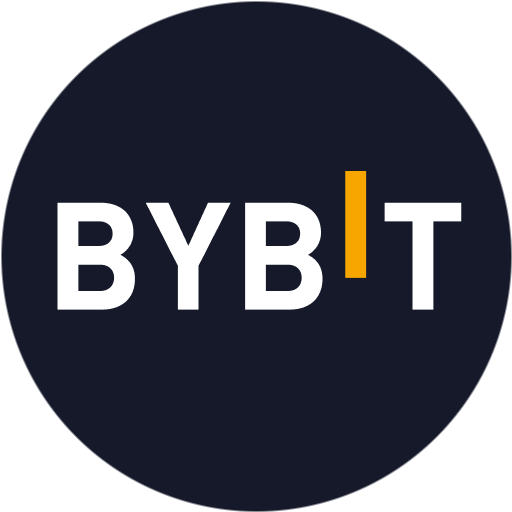
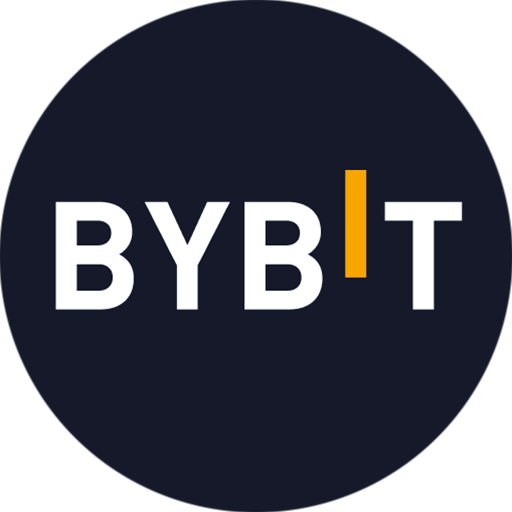
ыв

diff --git a/src/components/ui/CryptoIcons.jsx b/src/components/ui/CryptoIcons.jsx
@@ -13,21 +13,32 @@ import bybitPng from '../../assets/bottom-icons/bybit.png'
 import okxPng from '../../assets/bottom-icons/okx.png'
 import binancePng from '../../assets/bottom-icons/binance.png'
 
-const topIcons = [
+import gptPng from '../../assets/bottom-icons/gpt.png'
+import geminiPng from '../../assets/bottom-icons/gemini.png'
+import grokPng from '../../assets/bottom-icons/grok.png'
+
+const paymentIcons = [
   { id: 'usdt', name: 'USDT', src: usdtPng },
   { id: 'ton', name: 'TON', src: tonPng },
-  { id: 'eth', name: 'ETH', src: ethPng },
   { id: 'btc', name: 'BTC', src: btcPng },
-    { id: 'bybit', name: 'Bybit', src: bybitPng },
-  { id: 'okx', name: 'OKX', src: okxPng },
-  { id: 'binance', name: 'Binance', src: binancePng },
 ]
 
-const bottomIcons = [
+const bankIcons = [
   { id: 'sbp', name: 'СБП', src: sbpPng },
   { id: 'vtb', name: 'ВТБ', src: vtbPng, imgClassName: 'scale-[1.1] -translate-x-[1px]' },
   { id: 'sber', name: 'Сбер', src: sberPng },
+]
 
+const exchangeIcons = [
+  { id: 'binance', name: 'Binance', src: binancePng },
+  { id: 'okx', name: 'OKX', src: okxPng, imgClassName: 'scale-[1.08]' },
+  { id: 'bybit', name: 'Bybit', src: bybitPng, imgClassName: 'scale-[1.08]' },
+]
+
+const aiChatIcons = [
+  { id: 'gpt', name: 'GPT', src: gptPng, imgClassName: 'scale-[0.82]' },
+  { id: 'gemini', name: 'Gemini', src: geminiPng, imgClassName: 'scale-[0.82]' },
+  { id: 'grok', name: 'Grok', src: grokPng },
 ]
 
 function IconCircle({ src, alt, index, imgClassName = '' }) {
@@ -36,7 +47,7 @@ function IconCircle({ src, alt, index, imgClassName = '' }) {
       initial={{ opacity: 0, scale: 0 }}
       animate={{ opacity: 1, scale: 1 }}
       transition={{ delay: index * 0.06 }}
-      className="flex h-9 w-9 items-center justify-center overflow-hidden rounded-full bg-white"
+      className="flex h-8 w-8 items-center justify-center overflow-hidden rounded-full bg-white"
       title={alt}
     >
       <img
@@ -49,34 +60,92 @@ function IconCircle({ src, alt, index, imgClassName = '' }) {
   )
 }
 
+function TextCircle({ label, title, index }) {
+  return (
+    <motion.div
+      initial={{ opacity: 0, scale: 0 }}
+      animate={{ opacity: 1, scale: 1 }}
+      transition={{ delay: index * 0.06 }}
+      className="flex h-8 w-8 items-center justify-center overflow-hidden rounded-full bg-white text-[10px] font-semibold text-[var(--color-text)]"
+      title={title}
+    >
+      {label}
+    </motion.div>
+  )
+}
+
+function PlusCircle({ value = '+10', delay = 0.4 }) {
+  return (
+    <motion.div
+      initial={{ opacity: 0, scale: 0 }}
+      animate={{ opacity: 1, scale: 1 }}
+      transition={{ delay }}
+      className="flex h-8 w-8 items-center justify-center rounded-full bg-[var(--color-bg-card)] text-[10px] font-semibold text-[var(--color-text-sub)]"
+    >
+      {value}
+    </motion.div>
+  )
+}
+
 export default function CryptoIcons() {
   return (
-    <div className="space-y-3">
-      <div className="flex items-center gap-2">
-        {topIcons.map((item, index) => (
-          <IconCircle key={item.id} src={item.src} alt={item.name} index={index} />
-        ))}
+    <div className="grid grid-cols-2 gap-4">
+      <div className="space-y-2">
+        <div className="text-[11px] font-semibold text-[var(--color-text-sub)]">Принимаем платежи:</div>
+
+        <div className="flex items-center gap-2">
+          {paymentIcons.map((item, index) => (
+            <IconCircle key={item.id} src={item.src} alt={item.name} index={index} />
+          ))}
+          <PlusCircle value="+10" delay={0.25} />
+        </div>
+
+        <div className="flex items-center gap-2">
+          {bankIcons.map((item, index) => (
+            <IconCircle
+              key={item.id}
+              src={item.src}
+              alt={item.name}
+              index={index}
+              imgClassName={item.imgClassName}
+            />
+          ))}
+          <PlusCircle value="+10" delay={0.25} />
+        </div>
       </div>
 
-      <div className="flex items-center gap-2">
-        {bottomIcons.map((item, index) => (
-          <IconCircle
-            key={item.id}
-            src={item.src}
-            alt={item.name}
-            index={index}
-            imgClassName={item.imgClassName}
-          />
-        ))}
+      <div className="space-y-2">
+        <div className="text-[11px] font-semibold text-[var(--color-text-sub)]">Работаем с:</div>
 
-        <motion.div
-          initial={{ opacity: 0, scale: 0 }}
-          animate={{ opacity: 1, scale: 1 }}
-          transition={{ delay: 0.4 }}
-          className="flex h-9 w-9 items-center justify-center rounded-full bg-[var(--color-bg-card)] text-xs font-semibold text-[var(--color-text-sub)]"
-        >
-          +5
-        </motion.div>
+        <div className="flex items-center gap-2">
+          {exchangeIcons.map((item, index) => (
+            <IconCircle
+              key={item.id}
+              src={item.src}
+              alt={item.name}
+              index={index}
+              imgClassName={item.imgClassName}
+            />
+          ))}
+          <PlusCircle value="+3" delay={0.25} />
+        </div>
+
+        <div className="flex items-center gap-2">
+          {aiChatIcons.map((item, index) => (
+            item.src ? (
+              <IconCircle
+                key={item.id}
+                src={item.src}
+                alt={item.name}
+                index={index}
+                imgClassName={item.imgClassName}
+              />
+            ) : (
+              <TextCircle key={item.id} label={item.label} title={item.name} index={index} />
+            )
+          ))}
+          <PlusCircle value="+5" delay={0.25} />
+        </div>
       </div>
     </div>
   )
